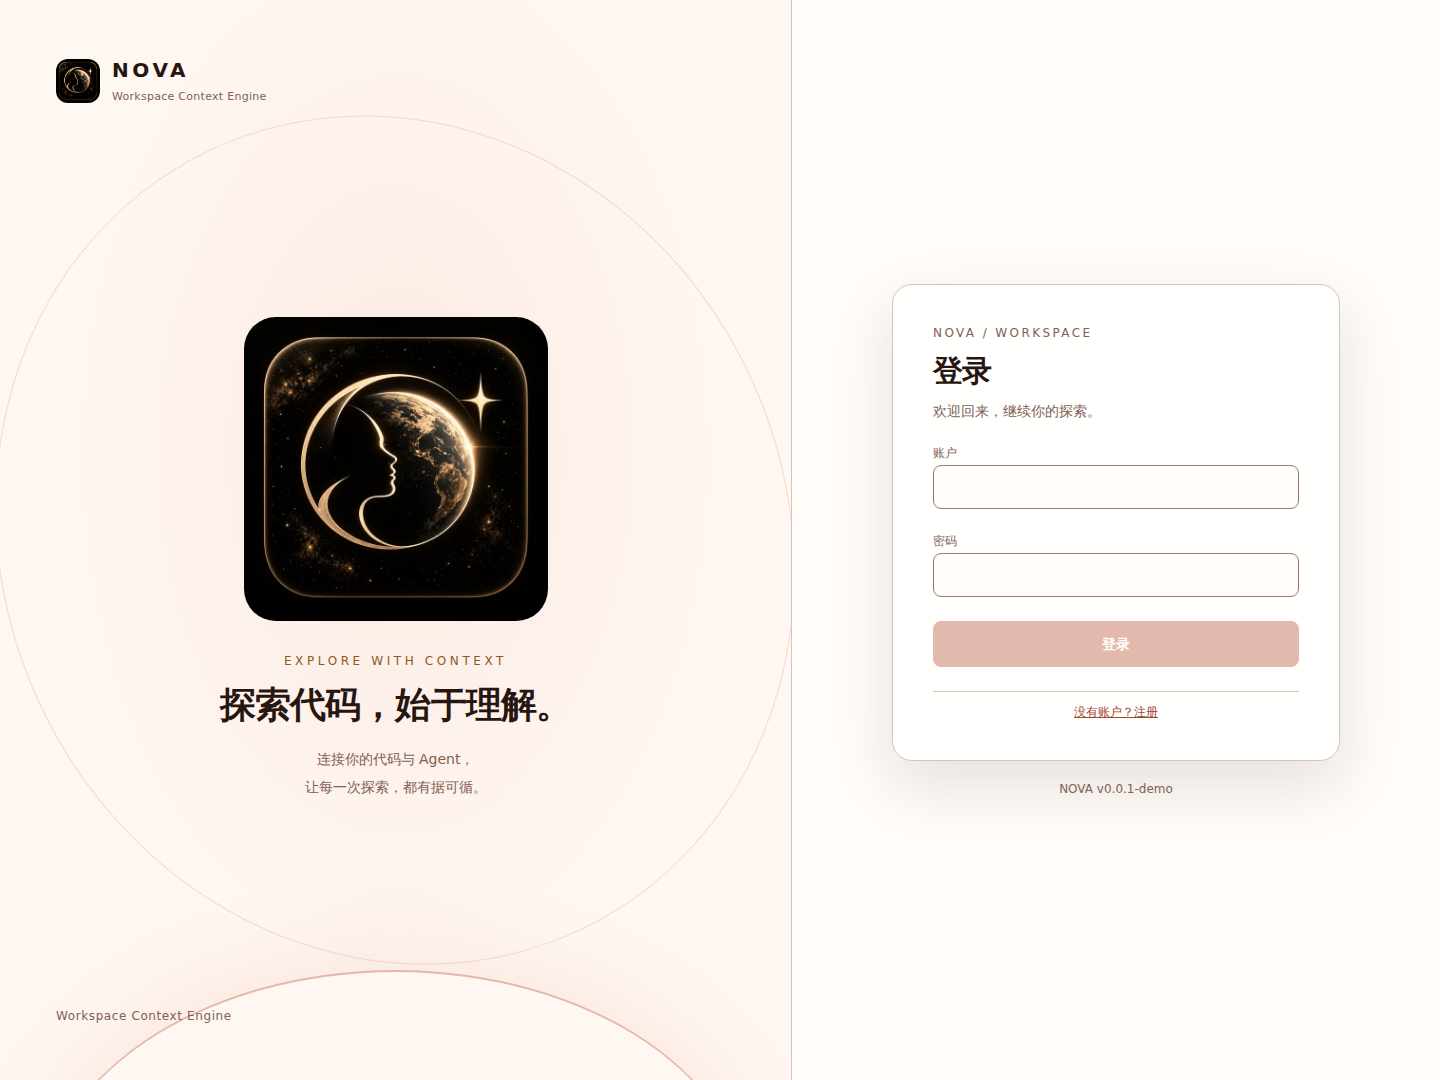
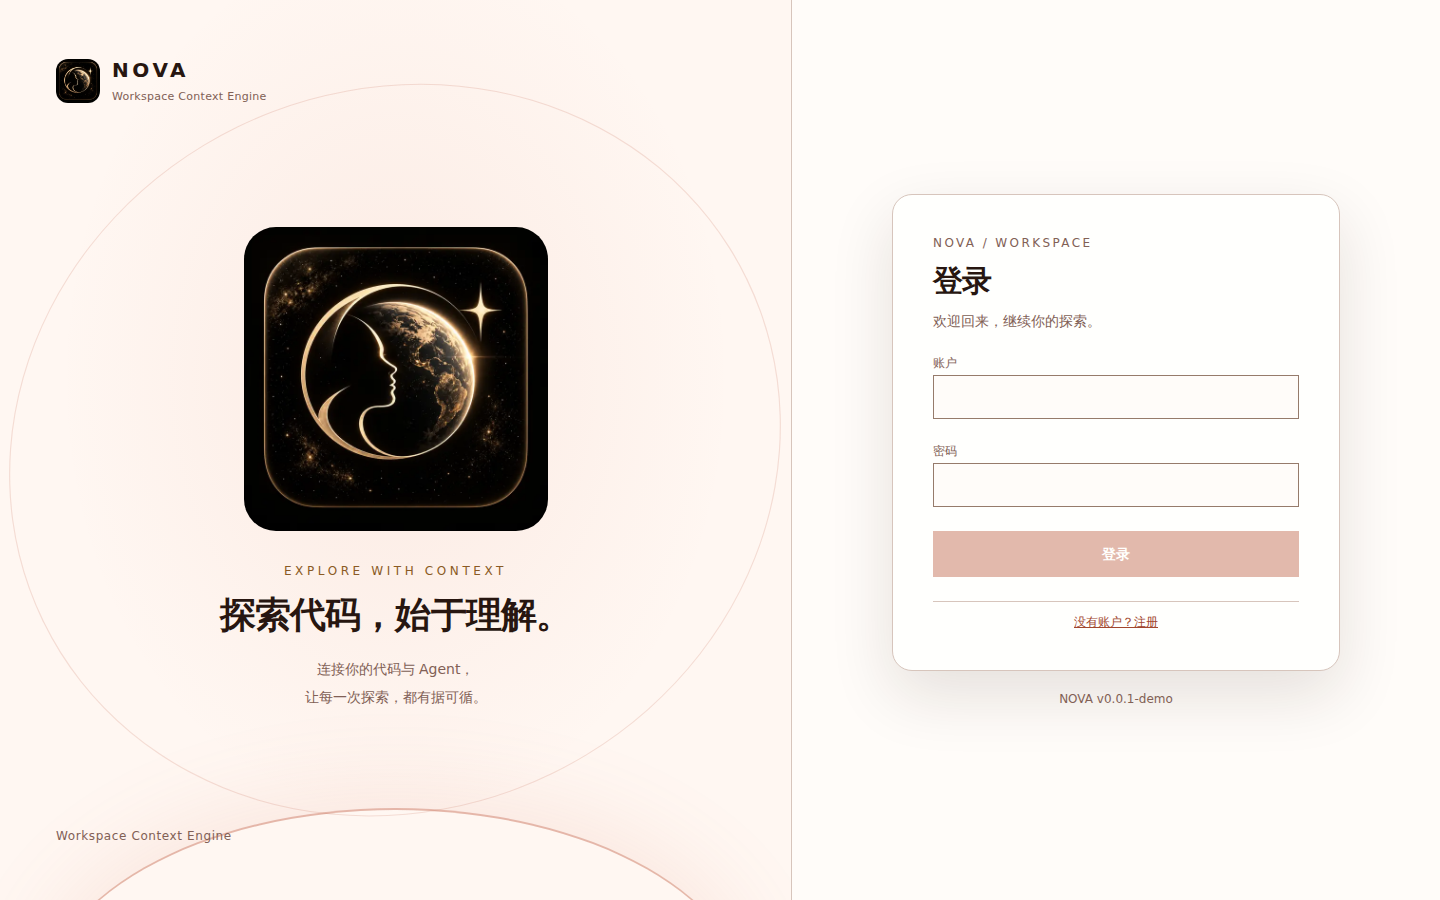
style: compact dashboard and refine card and control shapes

diff --git a/web/src/pages/DashboardPage.tsx b/web/src/pages/DashboardPage.tsx
@@ -99,13 +99,13 @@ export function DashboardPage() {
   const { account: profile, index, usage } = data;
 
   return (
-    <Page>
+    <Page className="dashboard-page">
       <div className="flex flex-wrap items-baseline justify-between gap-3">
         <h1 className="text-lg font-semibold">控制台</h1>
         <RangePicker days={days} onChange={setDays} />
       </div>
 
-      <div className="grid grid-cols-1 gap-6 lg:grid-cols-2">
+      <div className="grid grid-cols-1 gap-4 lg:grid-cols-2">
         <Panel title="账户资料" icon="user">
           <Row label="账户" value={profile.name} />
           <Row
@@ -140,37 +140,39 @@ export function DashboardPage() {
       </div>
 
       <Panel title={`工具调用（近 ${data.days} 天）`} icon="activity">
-        {/* 保留三类统计与原有口径，每个指标用独立数据框展示。 */}
-        <StatRow
-          label="仓库初始化"
-          items={[
-            ["次数", `${index.total} 次`],
-            [
-              "平均耗时",
-              index.avgDurationMs === null ? "—" : formatDuration(index.avgDurationMs),
-            ],
-            [
-              "最快 / 最慢",
-              index.minDurationMs == null
-                ? "—"
-                : `${formatDuration(index.minDurationMs)} / ${formatDuration(index.maxDurationMs ?? 0)}`,
-            ],
-          ]}
-        />
-        <StatRow
-          label="检索"
-          items={[
-            ["次数", `${usage.total} 次`],
-            ["平均耗时", usage.avgLatencyMs === null ? "—" : `${usage.avgLatencyMs} ms`],
-          ]}
-        />
-        <StatRow
-          label="Tool 调用"
-          items={[
-            ["成功", String(usage.succeeded + index.succeeded), "ok"],
-            ["失败", String(usage.failed + index.failed), "bad"],
-          ]}
-        />
+        {/* 桌面横向排列三类统计，手机纵向；保留全部指标与原有口径。 */}
+        <div className="grid gap-3 lg:grid-cols-3">
+          <StatRow
+            label="仓库初始化"
+            items={[
+              ["次数", `${index.total} 次`],
+              [
+                "平均耗时",
+                index.avgDurationMs === null ? "—" : formatDuration(index.avgDurationMs),
+              ],
+              [
+                "最快 / 最慢",
+                index.minDurationMs == null
+                  ? "—"
+                  : `${formatDuration(index.minDurationMs)} / ${formatDuration(index.maxDurationMs ?? 0)}`,
+              ],
+            ]}
+          />
+          <StatRow
+            label="检索"
+            items={[
+              ["次数", `${usage.total} 次`],
+              ["平均耗时", usage.avgLatencyMs === null ? "—" : `${usage.avgLatencyMs} ms`],
+            ]}
+          />
+          <StatRow
+            label="Tool 调用"
+            items={[
+              ["成功", String(usage.succeeded + index.succeeded), "ok"],
+              ["失败", String(usage.failed + index.failed), "bad"],
+            ]}
+          />
+        </div>
 
         {usage.total === 0 && index.total === 0 && (
           <p className="mt-3 text-xs text-ink-muted">
@@ -184,14 +186,14 @@ export function DashboardPage() {
 
 function Panel({ title, icon, children }: { title: string; icon: IconName; children: React.ReactNode }) {
   return (
-    <section className="min-w-0 border-2 border-ink-line bg-paper-card p-5 shadow-sm md:p-6">
+    <section className="dashboard-panel min-w-0 border-2 border-ink-line bg-paper-card p-4 shadow-sm">
       <h2 className="panel-heading mb-5 text-base font-semibold text-ink-primary"><Icon name={icon} />{title}</h2>
       {children}
     </section>
   );
 }
 
-/** 工具调用按类别分组，每项指标独立成框，保留未测量值和成功／失败语义。 */
+/** 三类统计各用一个方框，指标按行排列，保留未测量值和成功／失败语义。 */
 function StatRow({
   label,
   items,
@@ -200,17 +202,17 @@ function StatRow({
   items: [string, string, ("ok" | "bad")?][];
 }) {
   return (
-    <section className="mb-5 border-b border-dashed border-ink-line pb-5 last:mb-0 last:border-b-0 last:pb-0">
-      <h3 className="mb-3 text-sm font-semibold text-ink-primary">{label}</h3>
-      <dl className={`grid gap-3 ${items.length === 3 ? "sm:grid-cols-3" : "sm:grid-cols-2"}`}>
+    <section className="min-w-0 border border-ink-line bg-paper-raised p-3">
+      <h3 className="mb-2 text-sm font-semibold text-ink-primary">{label}</h3>
+      <dl>
         {items.map(([key, value, tone]) => (
           <div
             key={key}
-            className="min-w-0 rounded-lg border border-ink-line bg-paper-raised p-4"
+            className="flex min-w-0 items-baseline justify-between gap-3 border-b border-ink-line/70 py-1.5 last:border-b-0"
           >
-            <dt className="text-xs text-ink-muted">{key}</dt>
+            <dt className="shrink-0 text-xs text-ink-muted">{key}</dt>
             <dd
-              className={`mt-2 break-words font-mono text-xl font-semibold leading-snug tabular-nums ${
+              className={`min-w-0 break-words text-right font-mono text-base font-semibold leading-snug tabular-nums ${
                 tone === "ok"
                   ? "text-success-text"
                   : tone === "bad"
@@ -272,7 +274,7 @@ export function formatQuota(size: number): string {
 
 function Row({ label, value }: { label: string; value: React.ReactNode }) {
   return (
-    <div className="flex items-baseline justify-between gap-3 border-b border-dashed border-ink-line/70 py-2.5 last:border-b-0">
+    <div className="flex items-baseline justify-between gap-3 border-b border-dashed border-ink-line/70 py-1 last:border-b-0">
       <span className="shrink-0 text-xs text-ink-muted">{label}</span>
       <span className="min-w-0 break-words text-right text-sm text-ink-primary">{value}</span>
     </div>

diff --git a/web/src/index.css b/web/src/index.css
@@ -22,7 +22,7 @@
 @layer components {
   .brand-mark { @apply h-11 w-11 shrink-0 rounded-lg object-cover; }
   .sidebar-link {
-    @apply flex min-h-11 items-center gap-3 rounded-lg border border-transparent px-3 py-2.5 font-medium;
+    @apply flex min-h-11 items-center gap-3 border border-transparent px-3 py-2.5 font-medium;
     transition: background-color 150ms, color 150ms;
   }
   .sidebar-link:hover { @apply bg-paper-card text-ink-primary; }
@@ -30,7 +30,7 @@
   .ui-button,
   .page-content :where(button.border, button.bg-accent-seal, button.bg-danger-base):not([role="switch"]):not([aria-pressed]) {
     min-height: 2.5rem;
-    border-radius: 0.5rem;
+    border-radius: 0;
     transition: background-color 150ms, border-color 150ms;
   }
   .ui-button:hover:not(:disabled),
@@ -39,15 +39,17 @@
   }
   .page-content { @apply min-w-0 space-y-7; }
   .page-content h1 { @apply text-2xl font-semibold tracking-tight md:text-3xl; }
-  .page-content :where(section, div).bg-paper-card.shadow-sm { @apply rounded-xl; border-width: 1px; }
+  .page-content :where(section, div).bg-paper-card.shadow-sm { @apply rounded-xl; border-width: 2px; }
   .page-content :where(section, div).bg-paper-card.shadow-sm > h2 { @apply mb-5 text-base; }
+  .page-content.dashboard-page { @apply space-y-4; }
+  .page-content.dashboard-page .dashboard-panel > h2 { @apply mb-3; }
   .page-content table { font-variant-numeric: tabular-nums; }
   .page-content thead { @apply bg-paper-raised text-ink-muted; }
   .page-content tbody tr:hover { background: theme("colors.paper.base"); }
   .page-content :where(th, td) { padding-top: 0.85rem; padding-bottom: 0.85rem; }
   .panel-heading { @apply flex items-center gap-2.5; }
   .panel-heading > svg { @apply text-ink-muted; }
-  .range-picker { @apply inline-flex max-w-full flex-wrap gap-1 rounded-lg border border-ink-control bg-paper-raised p-1; }
+  .range-picker { @apply inline-flex max-w-full flex-wrap gap-1 border border-ink-control bg-paper-raised p-1; }
   .range-picker button { @apply min-h-8 whitespace-nowrap rounded px-3 py-1.5 text-xs font-medium; }
 
   .login-art {

diff --git a/web/src/components/ui.tsx b/web/src/components/ui.tsx
@@ -35,7 +35,7 @@ export function Card({
   children: ReactNode;
 }) {
   return (
-    <section className="min-w-0 border-2 border-ink-line bg-paper-card shadow-sm">
+    <section className="min-w-0 overflow-hidden rounded-xl border-2 border-ink-line bg-paper-card shadow-sm">
       {(title || actions) && (
         <header className="flex flex-wrap items-center justify-between gap-3 border-b border-ink-line bg-paper-raised px-5 py-4">
           <h2 className="text-base font-semibold text-ink-primary">{title}</h2>
@@ -169,8 +169,8 @@ export function LoadingBlock({ text = "加载中…" }: { text?: string }) {
  * 为什么不用“按页面类型自动判断”：用户明确说“只有历史记录调宽即可”，
  * 自动判断会在新页面出现时默默给出错误宽度；显式声明让每个页面自己负责。
  */
-export function Page({ children }: { children: ReactNode }) {
-  return <div className="page-content mx-auto max-w-5xl">{children}</div>;
+export function Page({ children, className = "" }: { children: ReactNode; className?: string }) {
+  return <div className={`page-content mx-auto max-w-5xl ${className}`}>{children}</div>;
 }
 
 export function WidePage({ children }: { children: ReactNode }) {

diff --git a/web/src/components/ServiceModels.tsx b/web/src/components/ServiceModels.tsx
@@ -37,7 +37,7 @@ export function ServiceModels() {
 
   return (
     <section
-      className="min-w-0 border-2 border-ink-line bg-paper-card p-5 shadow-sm md:p-6"
+      className="dashboard-panel min-w-0 border-2 border-ink-line bg-paper-card p-4 shadow-sm"
       data-testid="service-models"
     >
       <h2 className="panel-heading mb-5 text-base font-semibold text-ink-primary"><Icon name="cpu" />服务模型</h2>
@@ -46,7 +46,7 @@ export function ServiceModels() {
       {!failed && meta === null && <p className="text-xs text-ink-muted">读取中…</p>}
 
       {meta !== null && (
-        <div className="space-y-5">
+        <div className="grid gap-3 sm:grid-cols-2">
           <ModelGroup
             heading="LLM"
             configured={meta.config.llm.configured}
@@ -90,7 +90,7 @@ function ModelGroup({
           <span className="text-xs text-warning-text">未配置</span>
         )}
       </div>
-      <dl className="space-y-1">
+      <dl>
         {items.map(([key, value]) => (
           <div key={key} className="flex items-baseline justify-between gap-3 border-b border-dashed border-ink-line/60 py-1.5 last:border-b-0">
             <dt className="shrink-0 text-xs text-ink-muted">{key}</dt>

diff --git a/web/tailwind.config.js b/web/tailwind.config.js
@@ -7,7 +7,7 @@ export default {
         sans: ["Inter", "ui-sans-serif", "system-ui", "-apple-system", '"Segoe UI"', '"PingFang SC"', '"Microsoft YaHei"', "sans-serif"],
         mono: ["ui-monospace", "SFMono-Regular", "Menlo", "Consolas", "monospace"],
       },
-      borderRadius: { DEFAULT: "0.5rem", sm: "0.25rem", md: "0.625rem", lg: "0.75rem", xl: "1rem", "2xl": "1.25rem" },
+      borderRadius: { DEFAULT: "0", sm: "0", md: "0.625rem", lg: "0.75rem", xl: "1rem", "2xl": "1.25rem" },
       boxShadow: {
         sm: "0 4px 20px rgb(39 22 16 / 0.06)",
         xl: "0 24px 64px rgb(39 22 16 / 0.12)",

diff --git a/docs/assets/README.md b/docs/assets/README.md
@@ -8,7 +8,8 @@
 |---|---|---|
 | [nova-logo.webp](nova-logo.webp) | NOVA 人像与星球标志，登录页和侧栏使用同源素材 | 用户提供的橙金色 `LOGO/LOGO3.png`；使用授权由素材权利人保留 |
 | [screenshots/nova-login.png](screenshots/nova-login.png) | NOVA 登录页 | 当前构建，空表单，不含凭据 |
-| [screenshots/nova-dashboard.png](screenshots/nova-dashboard.png) | NOVA 控制台首页 | 当前构建，合成账户及指标 |
+| [screenshots/nova-dashboard.png](screenshots/nova-dashboard.png) | NOVA 紧凑控制台首页 | 当前构建，合成账户及指标；1280×720、1366×768 一屏验证通过 |
+| [screenshots/nova-connect.png](screenshots/nova-connect.png) | 接入指南，圆角卡片与方角控件 | 当前构建，API Key 保持空白 |
 | [screenshots/nova-login-mobile.png](screenshots/nova-login-mobile.png) | 手机登录页 | 当前构建，390px 宽度 |
 | [screenshots/nova-dashboard-mobile.png](screenshots/nova-dashboard-mobile.png) | 手机控制台 | 当前构建，合成账户及指标 |
 | [screenshots/connect.png](screenshots/connect.png) | README 快速开始横向截图 | 用户提供的接入指南页面截图 |

diff --git a/web/README.md b/web/README.md
@@ -49,6 +49,8 @@ npm --prefix web run dev -- --host 127.0.0.1 --strictPort
 
 主题恢复暖白底 `#FFF7F2`、浅暖白导航 `#FFFCF9` 与白色卡片 `#FFFFFD`，正文深棕，按钮、链接和选中项采用珊瑚橙 `#B95336`，主按钮文字为白色。登录页与侧栏使用用户提供的橙金色 `LOGO/LOGO3.png`，控制台保持中性卡片。成功、警告、错误分别使用绿、橙、红。控件轮廓使用独立的 `ink.control`，不使用装饰分隔线代替输入边界。颜色在 `tailwind.config.js`，共享样式在 `src/index.css`。桌面是左侧导航与右侧内容，窄屏使用导航抽屉。Logo 与脱敏截图见 [docs/assets/](../docs/assets/README.md)。
 
+主卡片保留圆角和 2px 边框；侧栏选中项、按钮及默认输入框使用方角。共享卡片裁切标题栏背景，避免方形标题栏覆盖外层圆角。控制台保留三张主卡片：账户资料压缩行距、模型横向分组、工具调用在桌面横向排列三组；手机端纵向展开，不隐藏指标或强制截断内容。合成数据下已验证 1280×720、1366×768 桌面无需纵向滚动。
+
 ## 检查命令
 
 在 `web/` 目录执行：
